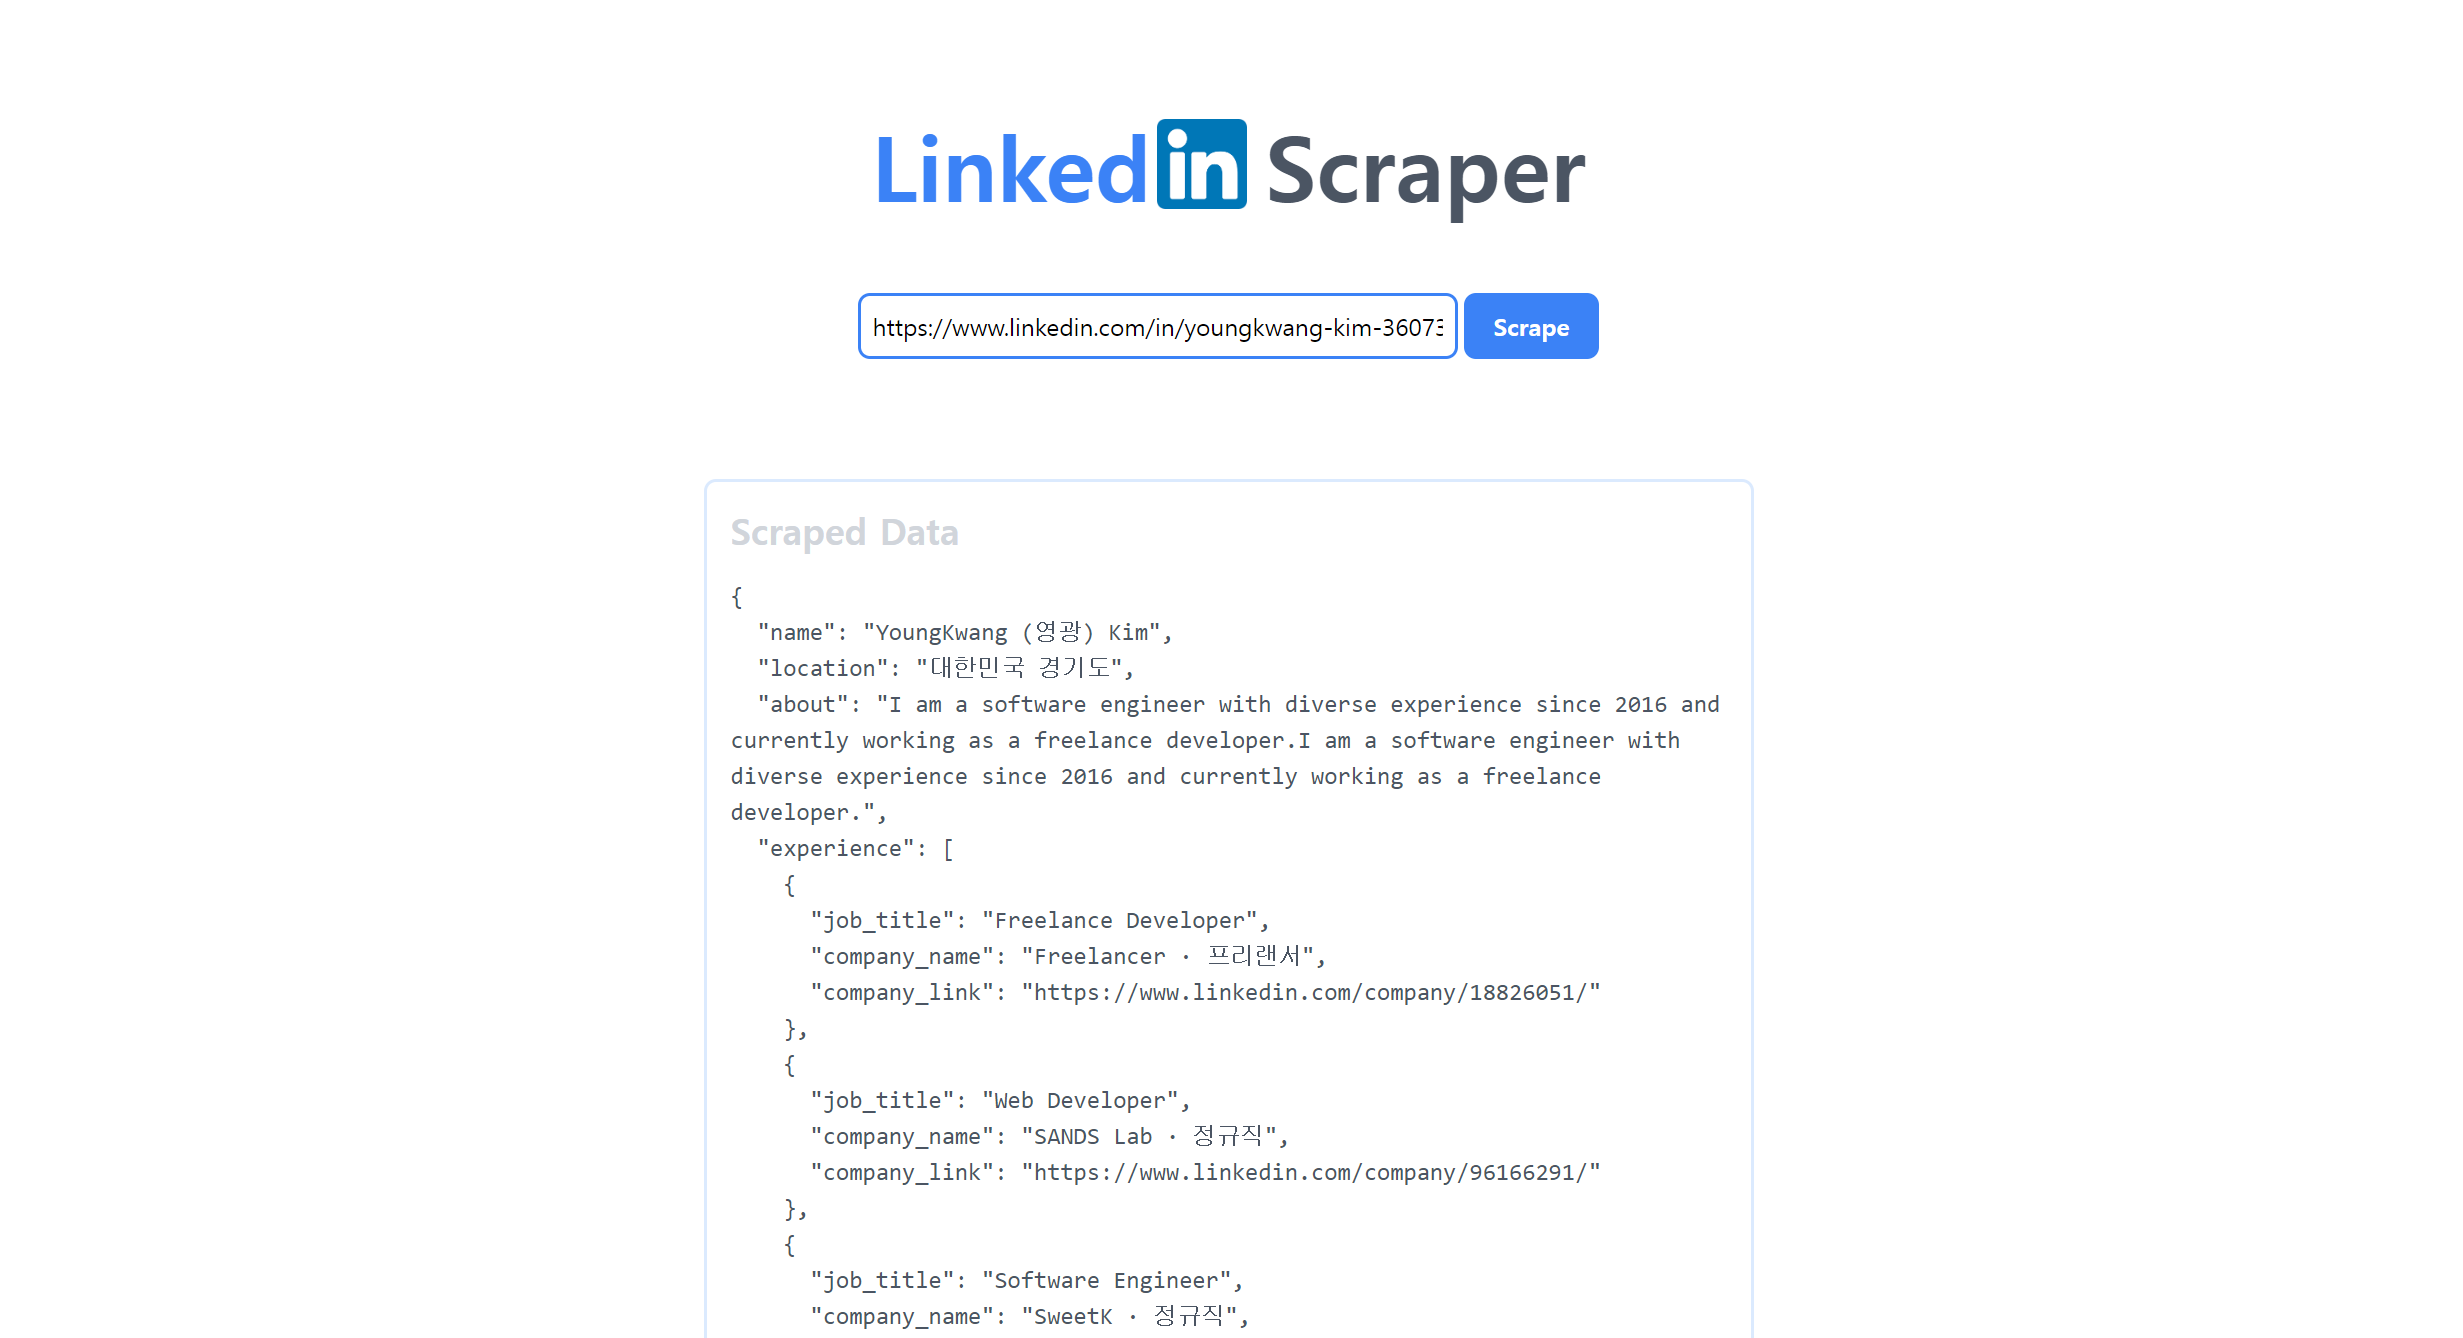
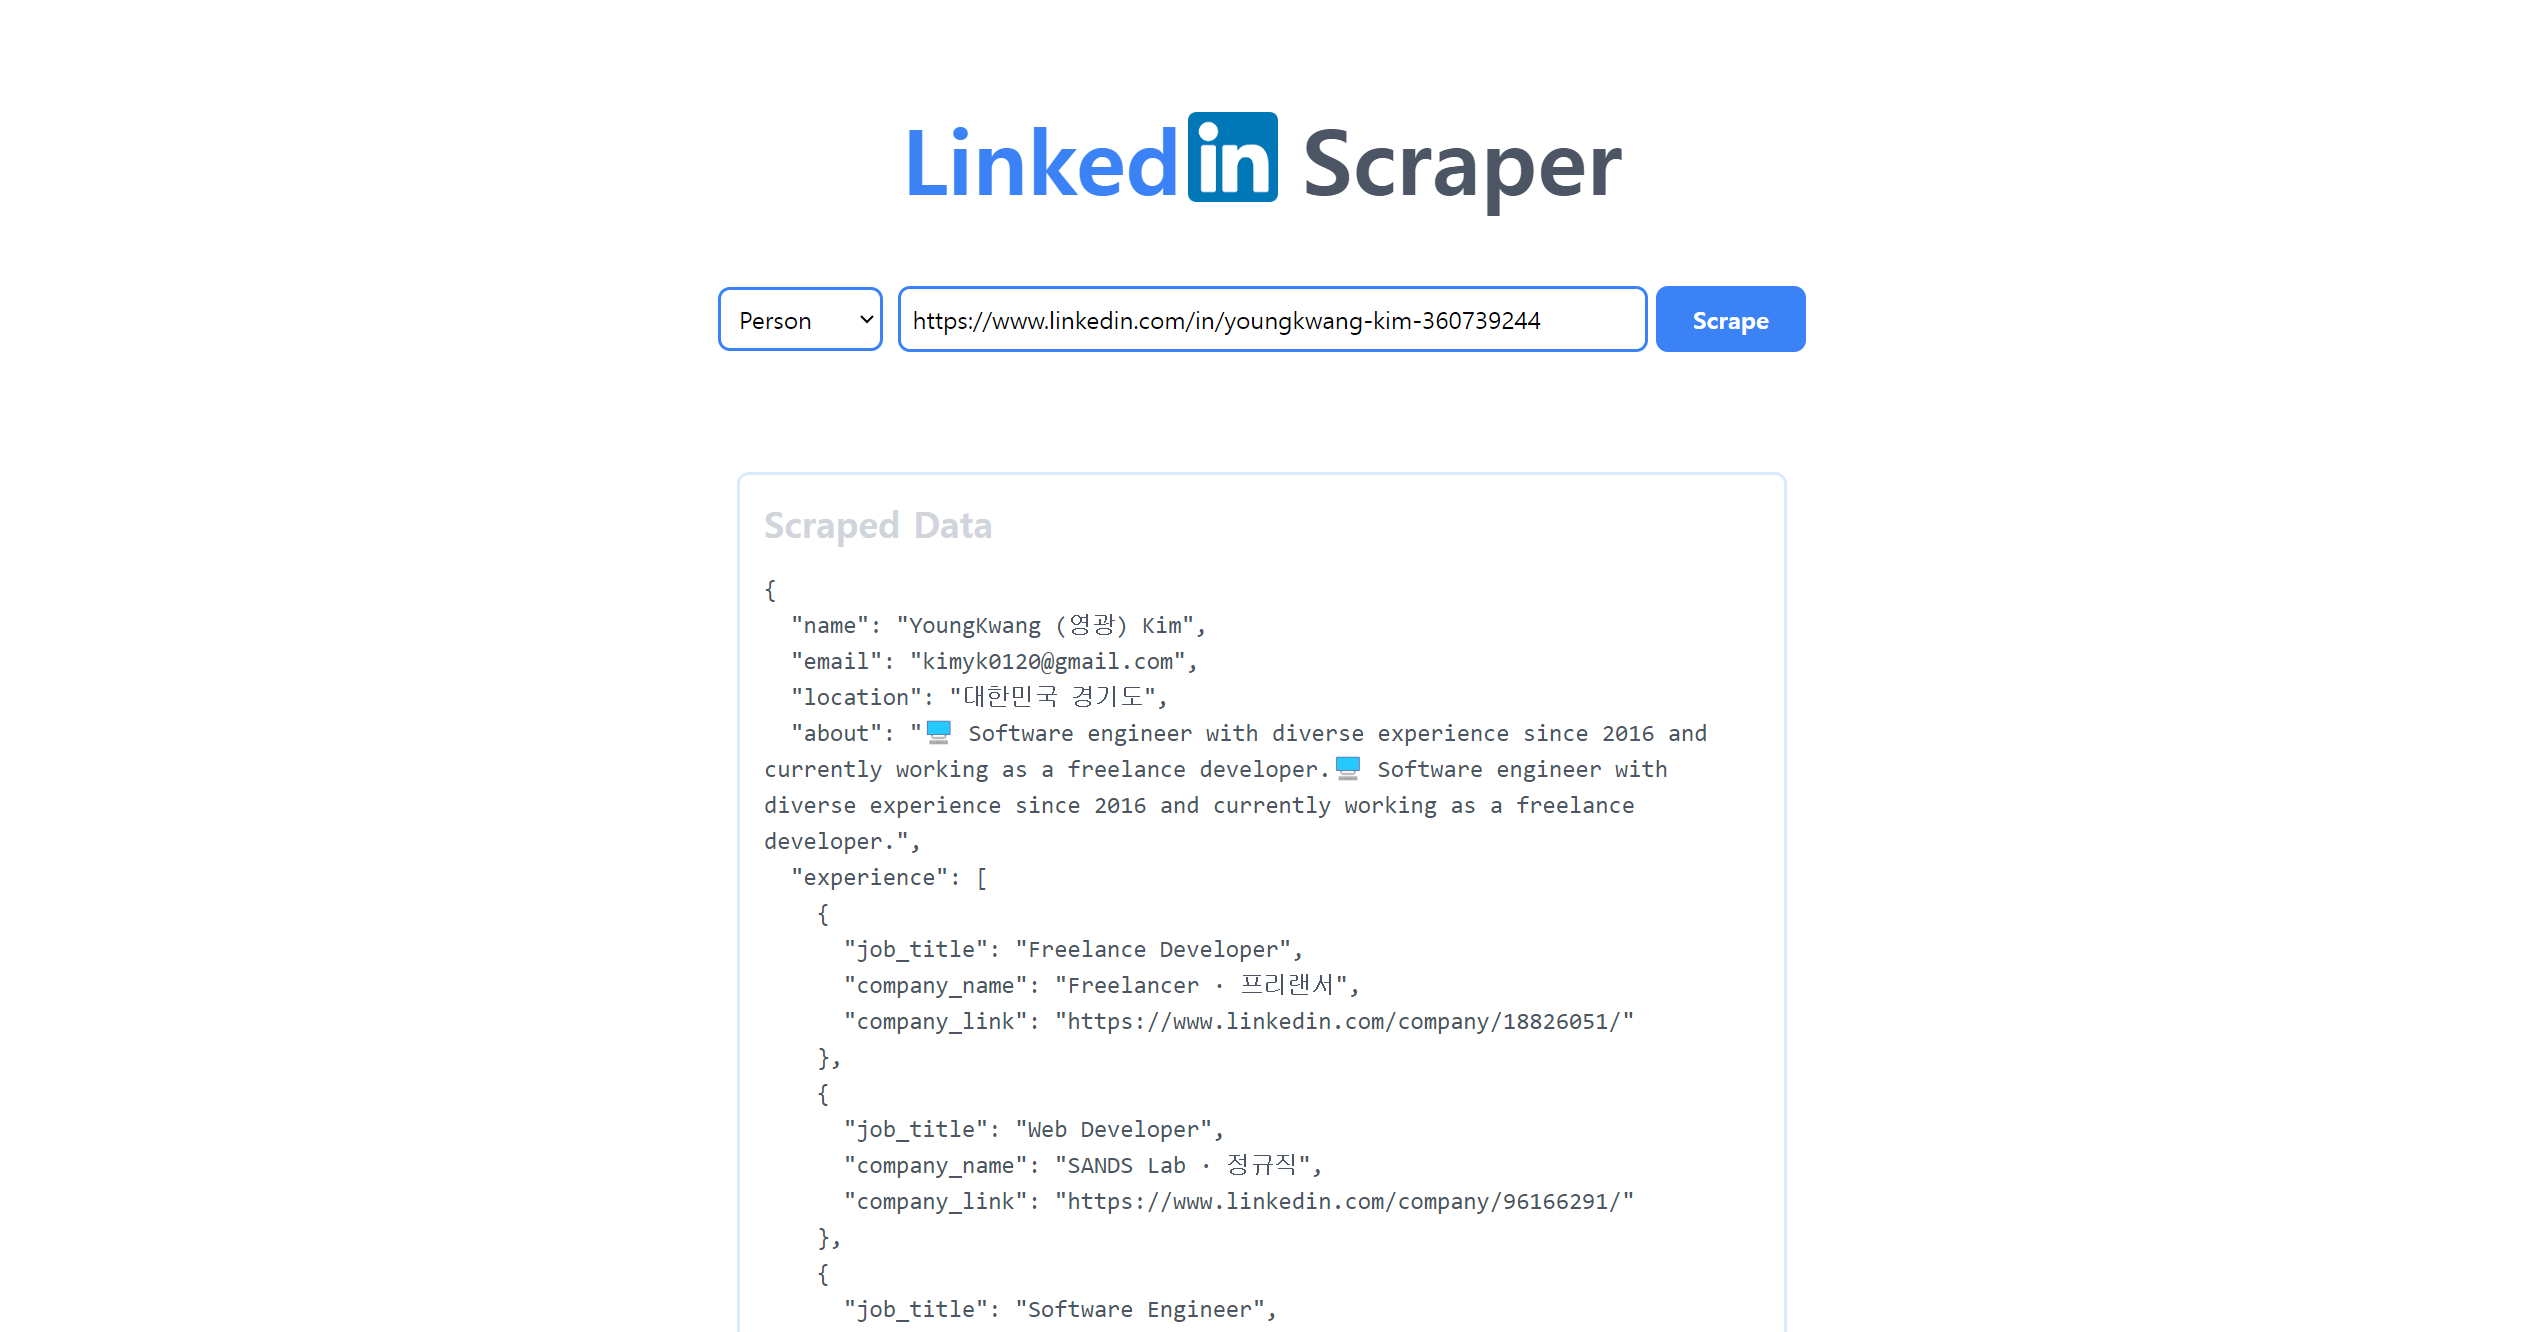
fix bug

diff --git a/scraper/core/person.py b/scraper/core/person.py
@@ -35,8 +35,8 @@ def scraper(scape_url=None, debug=False, loged_browser=None, ops_quit=True):
     test_url = scape_url
     if scape_url is None:
         # test_url = "https://www.linkedin.com/in/suwaidaslam/"
-        # test_url = "https://www.linkedin.com/in/youngkwang-kim-360739244"
-        test_url = "https://www.linkedin.com/in/seonwoo-y-15352a260/"
+        test_url = "https://www.linkedin.com/in/youngkwang-kim-360739244"
+        # test_url = "https://www.linkedin.com/in/seonwoo-y-15352a260/"
 
     print("Test URL: {}".format(test_url))
 
@@ -172,12 +172,13 @@ def scraper(scape_url=None, debug=False, loged_browser=None, ops_quit=True):
                                                                                                          recursive=False)
 
             for section_li in section_lis:
-                # if email expression
-                a_tag_text = section_li.find("a").get_text().strip()
-                if re.match(email_regex, a_tag_text):
-                    email = a_tag_text
-                    print("Email: {}".format(email))
-                    break
+                if section_li.find("a") is not None:
+                    # if email expression
+                    a_tag_text = section_li.find("a").get_text().strip()
+                    if re.match(email_regex, a_tag_text):
+                        email = a_tag_text
+                        print("Email: {}".format(email))
+                        break
 
     except Exception as e:
         print("error getting location: {}".format(e))
